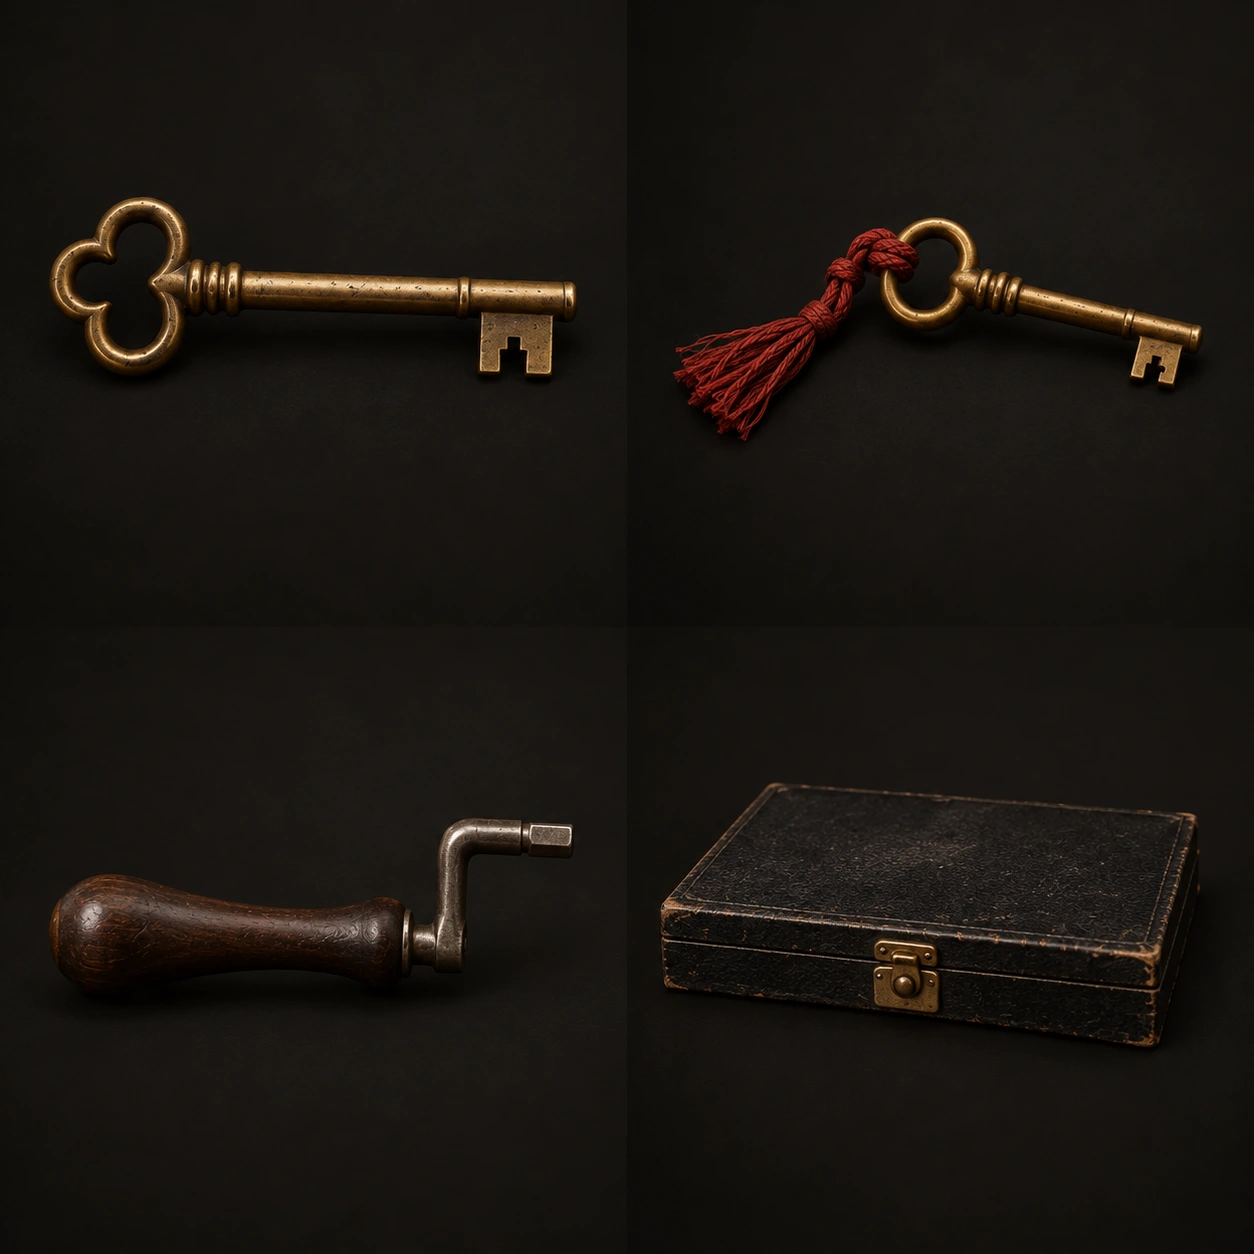
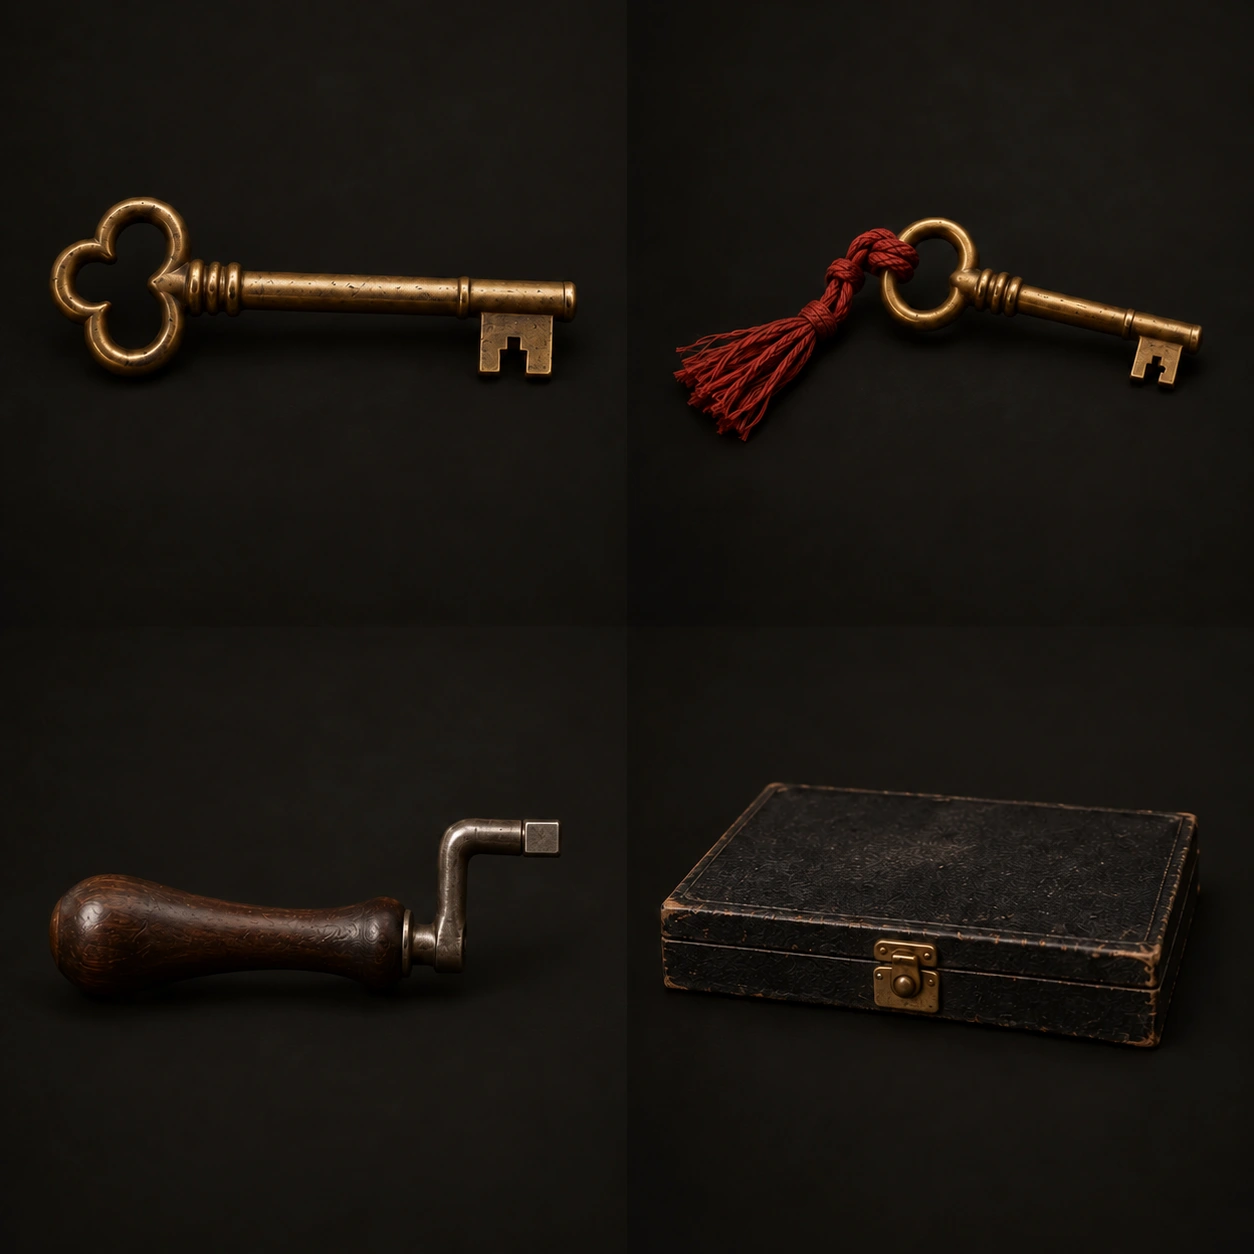
fix: 送りハンドルの四角軸と設置画像を一致させ着脱を反映

diff --git a/src/Scene.tsx b/src/Scene.tsx
@@ -289,7 +289,7 @@ export function Scene({
         notify(
           s.installed.wall?.includes("handle")
             ? "軸がまだ動かない。"
-            : "軸の先に、六角形の穴がある。",
+            : "六角形の軸が突き出ている。",
         );
       return;
     }
@@ -302,6 +302,8 @@ export function Scene({
       return;
     }
     update(E.open(s, id));
+    if (["feed", "backfeed"].includes(id) && s.installed[id]?.includes("crank"))
+      notify("送りハンドルを外して手元に戻した。");
   }
   function install(id: string, item: string) {
     if (selected && PUZZLES[id].items?.includes(selected)) item = selected;
@@ -311,7 +313,13 @@ export function Scene({
     }
     const next = E.install(s, id, item);
     update(next);
-    notify(ITEMS[item].reusable ? "手応えがあった。" : "取り付いた。");
+    notify(
+      item === "crank"
+        ? "四角い軸が差し込み口に収まった。"
+        : ITEMS[item].reusable
+          ? "手応えがあった。"
+          : "取り付いた。",
+    );
   }
   const documents = nodes
     .filter(
@@ -703,6 +711,36 @@ export function Scene({
                         click={() => install(id, item)}
                       />
                     ),
+                )}
+              {["feed", "backfeed"].includes(id) &&
+                s.installed[id]?.includes("crank") && (
+                  <>
+                    <Patch
+                      id={
+                        id === "feed"
+                          ? "gallery-crank-installed"
+                          : "backroom-crank-installed"
+                      }
+                      area={
+                        id === "feed"
+                          ? [71, 27, 15, 8]
+                          : [82.5, 26.5, 13.5, 6.8]
+                      }
+                    />
+                    {zoom && (
+                      <Target
+                        r={
+                          id === "feed" ? [72, 28, 13, 7] : [83, 27.4, 13, 5.6]
+                        }
+                        label="送りハンドルを外す"
+                        kind="fitting"
+                        click={() => {
+                          update(E.detachCrank(s, id));
+                          notify("送りハンドルを外した。");
+                        }}
+                      />
+                    )}
+                  </>
                 )}
               {zoom && (!opened || id === "beyond") && (
                 <Target

diff --git a/src/engine.ts b/src/engine.ts
@@ -71,10 +71,27 @@ export function install(s: State, id: string, item: string): State {
     return s;
   return {
     ...s,
-    inventory: ITEMS[item].reusable
-      ? s.inventory
-      : s.inventory.filter((x) => x !== item),
+    inventory:
+      ITEMS[item].reusable && item !== "crank"
+        ? s.inventory
+        : s.inventory.filter((x) => x !== item),
     installed: { ...s.installed, [id]: [...(s.installed[id] ?? []), item] },
+  };
+}
+export function detachCrank(s: State, id: string): State {
+  if (
+    !["feed", "backfeed"].includes(id) ||
+    PUZZLES[id].room !== s.room ||
+    !s.installed[id]?.includes("crank")
+  )
+    return s;
+  return {
+    ...s,
+    installed: {
+      ...s.installed,
+      [id]: s.installed[id].filter((x) => x !== "crank"),
+    },
+    inventory: [...new Set([...s.inventory, "crank"])],
   };
 }
 export function input(s: State, id: string, next: number[]): State {
@@ -120,7 +137,8 @@ export function open(s: State, id: string): State {
     s.opened.includes(id)
   )
     return s;
-  return { ...s, opened: [...s.opened, id] };
+  const next = { ...s, opened: [...s.opened, id] };
+  return ["feed", "backfeed"].includes(id) ? detachCrank(next, id) : next;
 }
 export function take(s: State, id: string, item: string): State {
   if (
@@ -309,6 +327,19 @@ export function parse(raw: string | null): State | null {
           : a.installed.lamp?.includes("bulb") && input?.[0] === 2;
       if (ready && !a.solved.includes(id)) a.solved = [...a.solved, id];
     }
+    // Earlier saves kept the reusable crank in inventory and in several devices.
+    const attached = ["feed", "backfeed"].filter(
+      (id) => a.installed[id]?.includes("crank") && !a.opened.includes(id),
+    );
+    const owner =
+      attached.find((id) => PUZZLES[id].room === a.room) ?? attached[0];
+    for (const id of ["feed", "backfeed"]) {
+      if (id !== owner && a.installed[id]?.includes("crank"))
+        a.installed[id] = a.installed[id].filter((x: string) => x !== "crank");
+    }
+    if (owner) a.inventory = a.inventory.filter((x: string) => x !== "crank");
+    else if (a.collected.includes("crank") && !a.inventory.includes("crank"))
+      a.inventory.push("crank");
     return {
       ...fresh(),
       ...a,

diff --git a/tests/engine.test.ts b/tests/engine.test.ts
@@ -131,3 +131,55 @@ describe("写真館の状態と進行", () => {
     );
   });
 });
+
+it("送りハンドルは一台だけに付き、取り外し・開蓋後に再利用できる", () => {
+  let s = {
+    ...E.fresh(),
+    started: true,
+    room: 1,
+    visited: [0, 1, 5],
+    inventory: ["crank", "handle"],
+    collected: ["crank", "handle"],
+  };
+  expect(E.install(s, "feed", "handle")).toBe(s);
+  s = E.install(s, "feed", "crank");
+  expect(s.inventory).not.toContain("crank");
+  expect(E.parse(JSON.stringify(s))?.installed.feed).toContain("crank");
+  expect(
+    E.install({ ...s, room: 5 }, "backfeed", "crank").installed.backfeed,
+  ).toBeUndefined();
+  s = E.detachCrank(s, "feed");
+  expect(s.inventory.filter((x) => x === "crank")).toHaveLength(1);
+  s = E.install(s, "feed", "crank");
+  s = E.open(E.solve(E.input(s, "feed", [2, 1]), "feed"), "feed");
+  expect(s.opened).toContain("feed");
+  expect(s.installed.feed).not.toContain("crank");
+  expect(s.inventory).toContain("crank");
+  s = E.install({ ...s, room: 5 }, "backfeed", "crank");
+  expect(s.installed.backfeed).toContain("crank");
+});
+
+it("旧保存の二重設置を現在の部屋の一台へ整理する", () => {
+  const old = {
+    ...E.fresh(),
+    room: 5,
+    visited: [0, 1, 5],
+    inventory: ["crank"],
+    collected: ["crank"],
+    installed: { feed: ["crank"], backfeed: ["crank"] },
+  };
+  const restored = E.parse(JSON.stringify(old))!;
+  expect(restored.inventory).not.toContain("crank");
+  expect(restored.installed.feed).toEqual([]);
+  expect(restored.installed.backfeed).toEqual(["crank"]);
+  const done = E.parse(
+    JSON.stringify({
+      ...old,
+      solved: ["feed", "backfeed"],
+      opened: ["feed", "backfeed"],
+    }),
+  )!;
+  expect(done.inventory.filter((x) => x === "crank")).toHaveLength(1);
+  expect(done.installed.feed).toEqual([]);
+  expect(done.installed.backfeed).toEqual([]);
+});

diff --git a/src/hints.ts b/src/hints.ts
@@ -99,6 +99,19 @@ export function hintSituation(
     return {
       text: missing
         .map((x) => {
+          const mounted = Object.keys(s.installed).find((key) =>
+            s.installed[key]?.includes(x),
+          );
+          if (mounted)
+            return (
+              "「" +
+              ITEMS[x].name +
+              "」は" +
+              ROOMS[PUZZLES[mounted].room].name +
+              "の「" +
+              PUZZLES[mounted].name +
+              "」に付いています。装置のハンドルを押して外してください。"
+            );
           const source = Object.values(PUZZLES).find((p) =>
             p.rewards?.includes(x),
           )!;

diff --git a/src/data.ts b/src/data.ts
@@ -65,7 +65,7 @@ export const ITEMS: Record<
   crank: {
     name: "送りハンドル",
     tile: 2,
-    description: "角の軸。手で回せる。",
+    description: "先端は四角い軸。木の握りが付いている。",
     reusable: true,
   },
   plate: {
@@ -105,7 +105,7 @@ export const ITEMS: Record<
   handle: {
     name: "幕のハンドル",
     tile: 10,
-    description: "背景幕の巻き上げに使う金属製のハンドル。",
+    description: "中央に六角形の穴がある、丸い金属製ハンドル。",
   },
   finalPlate: {
     name: "裏室の乾板",

diff --git a/docs/assets/2026-09-19-crank.md b/docs/assets/2026-09-19-crank.md
@@ -1,0 +1,17 @@
+# 送りハンドルの形状と設置状態
+
+生成方法: built-in image_gen。候補はリポジトリ外で管理し、以下の採用 WebP のみ保存。
+
+- `public/images/items/keys-and-case.webp`: 送りハンドル先端を四角い雄軸へ修正。丸い巻上げハンドルの六角い雌穴と区別する。
+- `public/images/rooms/gallery/states/crank-installed.webp`: 搬送口の四角い穴へ差し込まれた状態。
+- `public/images/rooms/backroom/states/crank-installed.webp`: 裏室の四角い穴へ差し込まれた状態。
+
+## 採用画像の指示
+
+1. 既存の四分割持ち物写真の左下にある送りハンドルだけを編集。木製握り・曲がった金属腕を維持し、先端は四つの角が明確な正方形断面の雄軸にする。他の三品、背景、照明、構図を維持する。
+2. 展示廊下の元写真の搬送装置上部へ同じ木製握りの送りハンドルを設置。握りを左に向け、四角い雄軸は四角い受けの内側へ入れる。収納口と下の二本のレバーを塞がない。元のカメラ・壁・金属の質感・照明を維持。初案で軸が穴の上へ浮いて見えたため再編集し、上へ突き出た金属端を取り除き、穴の中心へ入る接続部分と接触影へ修正。
+3. 裏室の元写真の二本のレバーと引出しの間にある四角い受けへ、木製握りの送りハンドルを設置。握りは左、金属腕は受けの内側へ入り、レバーと引出しの操作領域を塞がない。周囲の古い木材、明暗、視点を維持する。
+
+## 表示と状態
+
+設置時に持ち物から移し、写真中の握りを押すと外せる。収納を開いた時点で手元へ戻す。同じ一本を裏室でも再利用する。旧セーブの二重設置は現在の部屋を優先して一台へ整理する。

diff --git a/docs/verification.md b/docs/verification.md
@@ -74,3 +74,12 @@
 ## 配置図の壁面変更
 
 配置図は撮影室の西向き、撮影機の奥にある既存の右側の額へ配置。四隅を壁面の遠近に合わせる。背景幕側の配置とクリック範囲は除去し、ヒントも撮影機の奥を案内する。390px / 1440px幅で両視点を目視確認し、移設先の額から高解像度の図を開いて記録されることを確認。TypeScript・本番ビルド通過。UI Evolveの既存知見（実物との位置・前景干渉・遠近の一致）を適用した局所修正で、新規知見の追記は不要。
+
+
+## 2026-09-19 送りハンドルの設置表示
+
+- Chrome / production preview: 390px・1440px で展示廊下と裏室それぞれの取り付け前、設置後、取り外し後、開蓋後を撮影。設置時の握り・接続部、空の差し込み口への復帰を実画像で確認。
+- 設置後に再読込して状態を復元し、取り外し・再設置・解答・開蓋による自動返却まで実操作。各幅・両装置とも成功。
+- 全15仕掛けをブラウザで解いて終了。pageerror / HTTP error なし。
+- 31単体テスト、TypeScript、production build、採用画像101枚の資産監査を実行。
+- 証跡: リポジトリ外 `ryuei-revision/crank-{390,1440}-{feed,backfeed}-{before,attached,detached,open}.png` および `final-390/result.json`。
